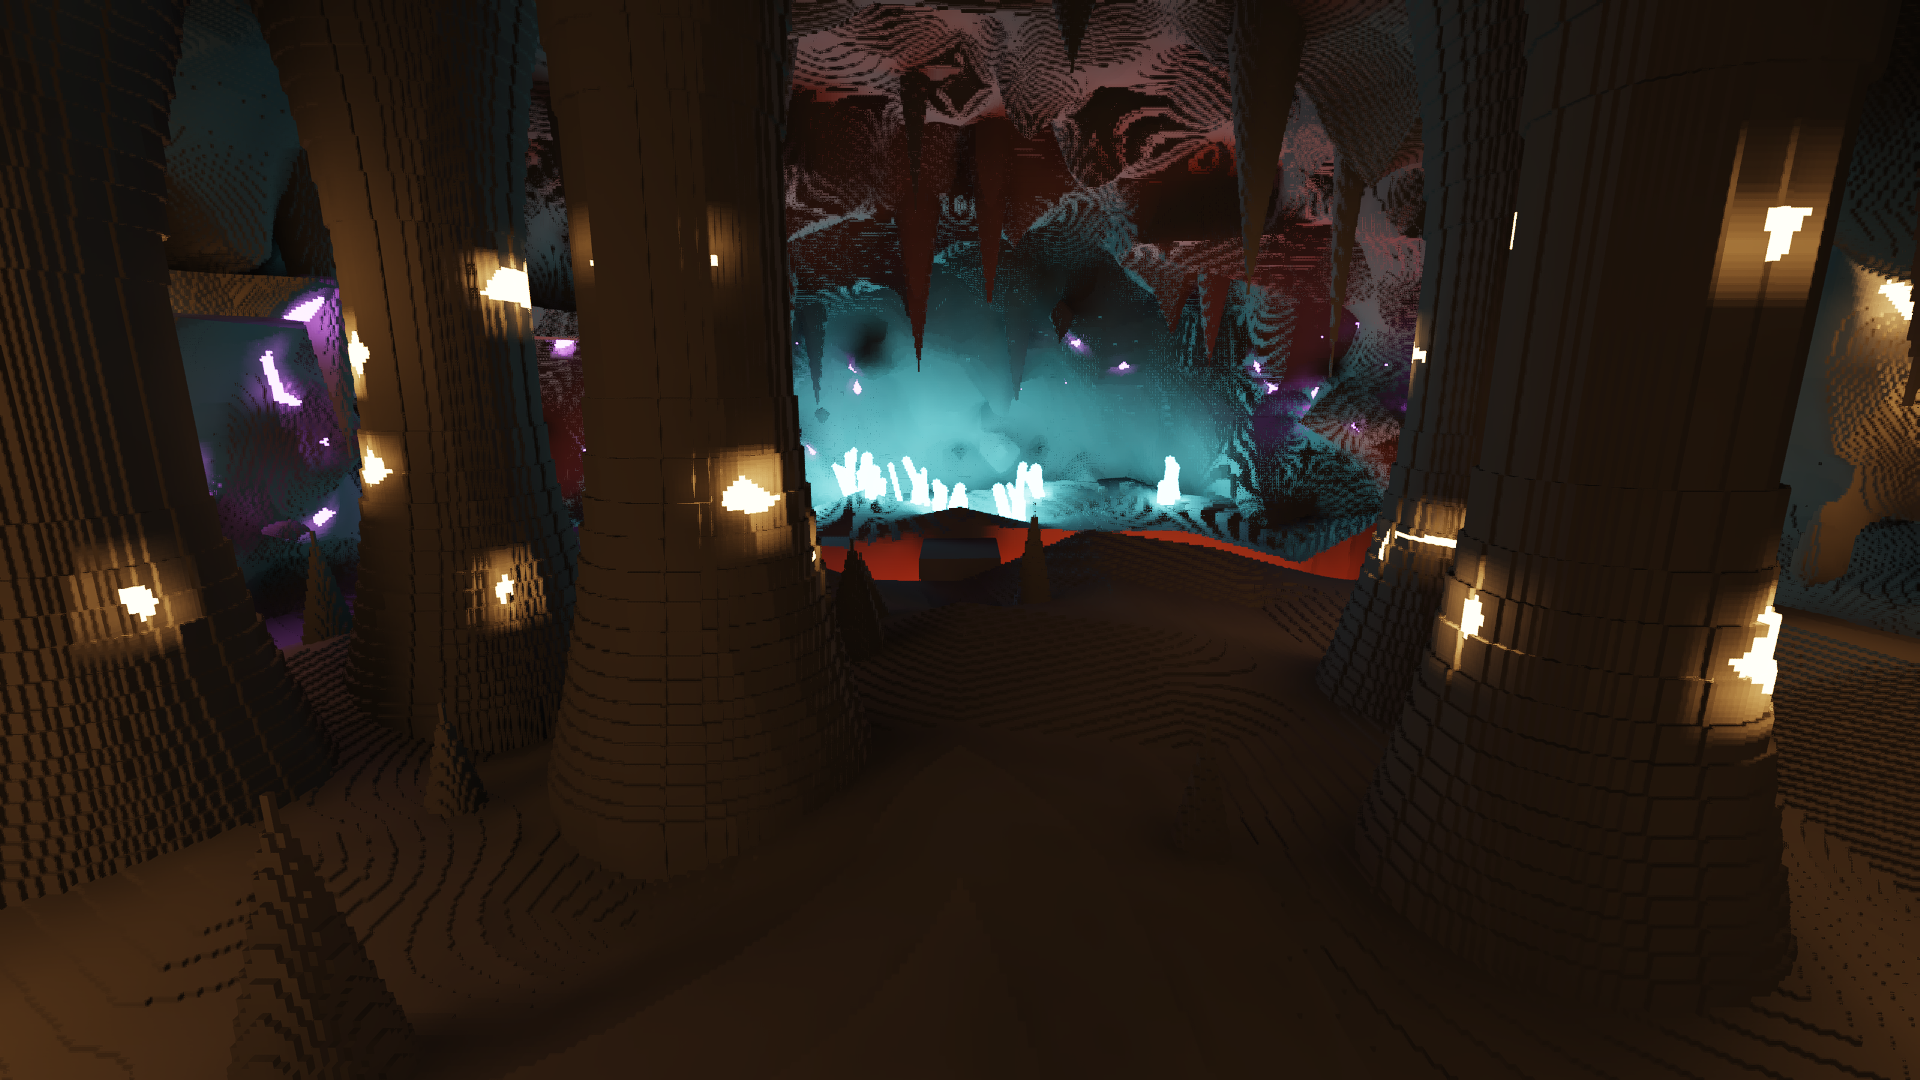
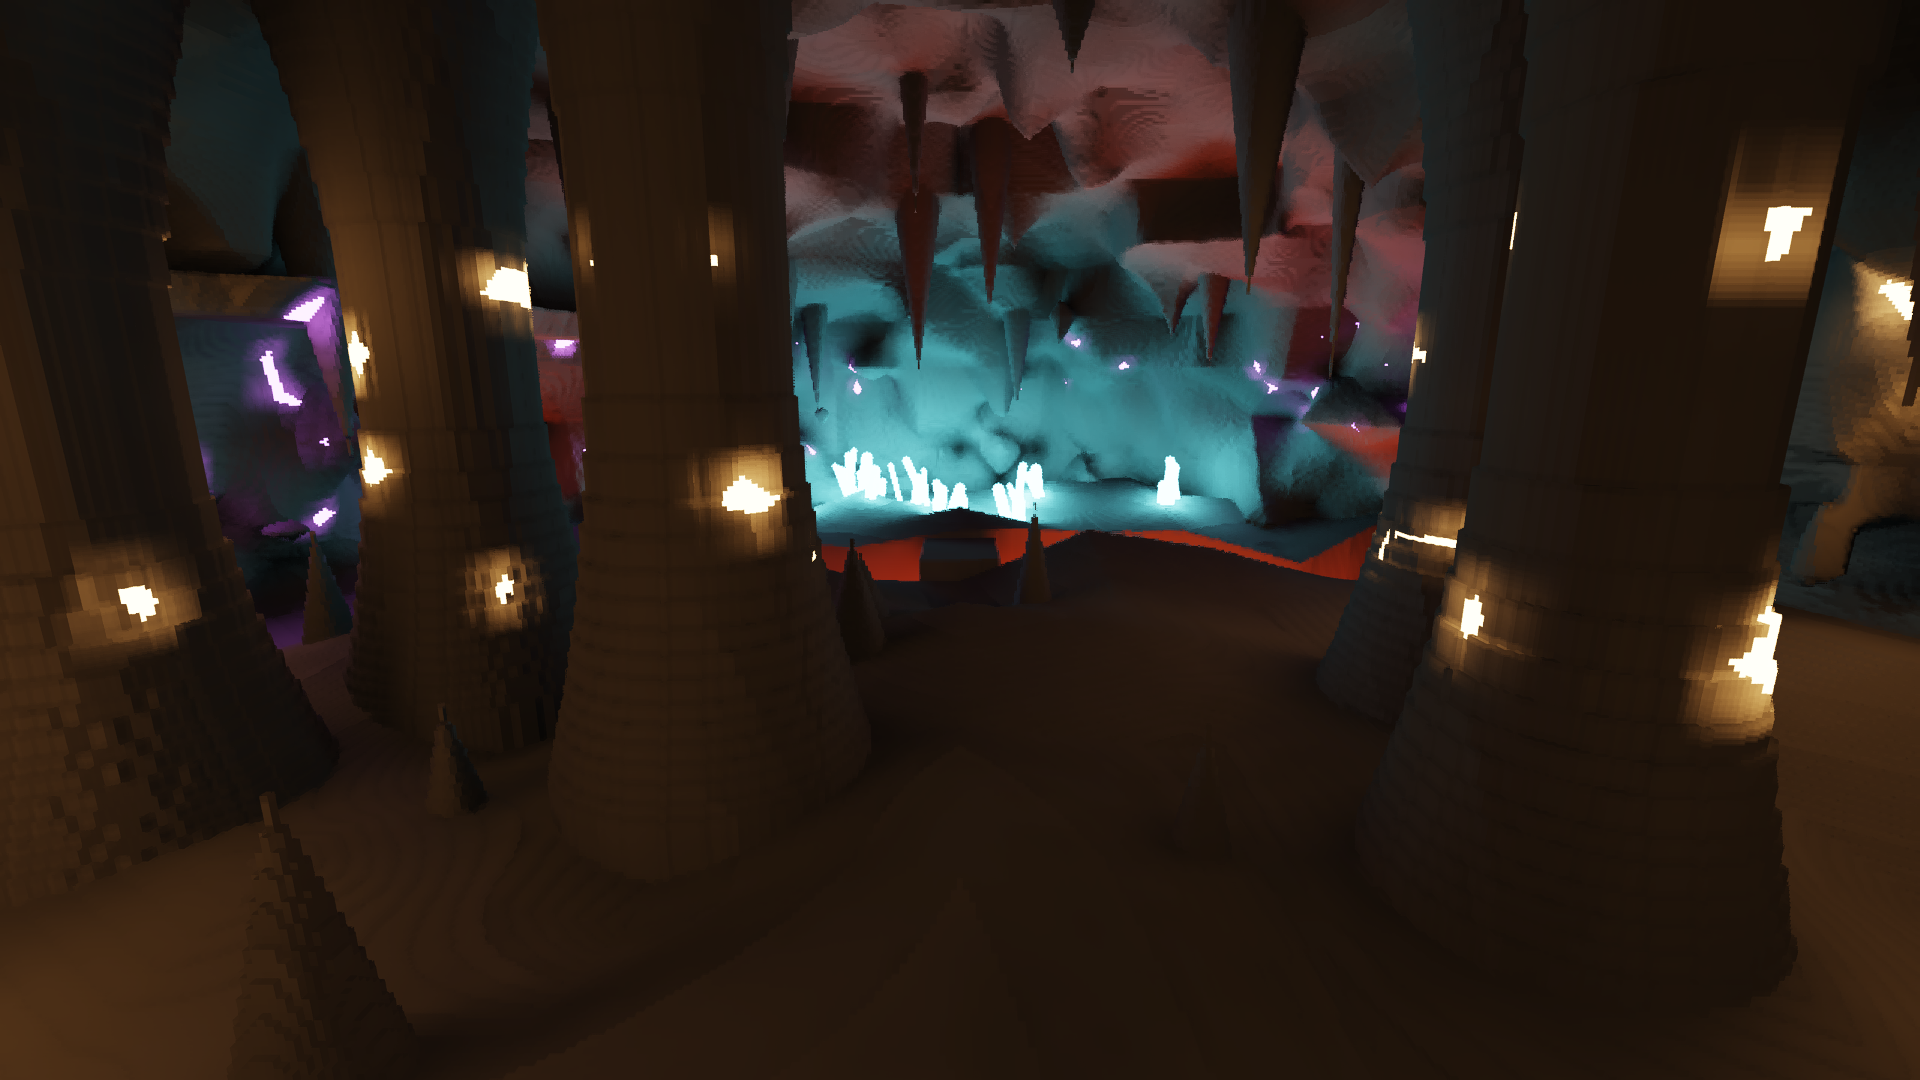
docs(readme): the hero re-rendered at the fly-through's defaults
Re-rendered with the README's command at 720ccb9 on the RTX 3080 Laptop
(exclusive perf lock): the store read by the shading normal and the light
filters weighted by the face normal, as the fly-through starts. The caption
names both. 29806 light samples, 8192 frames, mean sRGB luma 36.5/255.

diff --git a/README.md b/README.md
@@ -10,8 +10,9 @@
 the light is the four ores' (amber, cyan crystal, violet amethyst and red ember). 8192 frames at
 a manual exposure of 8, the emissive light read from the baked light store, FSR 2 on at
 internal scale 1.5 (1280x720 for 1920x1080) with sharpening 0.5, the default `face` look
-(honest cubes with the far normal at `[2, 6]`) and the default lighting, on an RTX 3080 Laptop GPU at 1920x1080,
-rendered 2026-11-13 at v0.52.0.
+(honest cubes with the far normal at `[2, 6]`) and the fly-through's default lighting (the
+store read by the shading normal, the light filters weighted by the face normal), on an RTX
+3080 Laptop GPU at 1920x1080, rendered 2026-11-13 at v0.52.0.
 Regenerate with
 `cargo run --release -p flythrough --example hero -- --exposure 8 --frames 8192 --out docs/images/hero.png`
 (every other setting above is the example's default).</sub>
